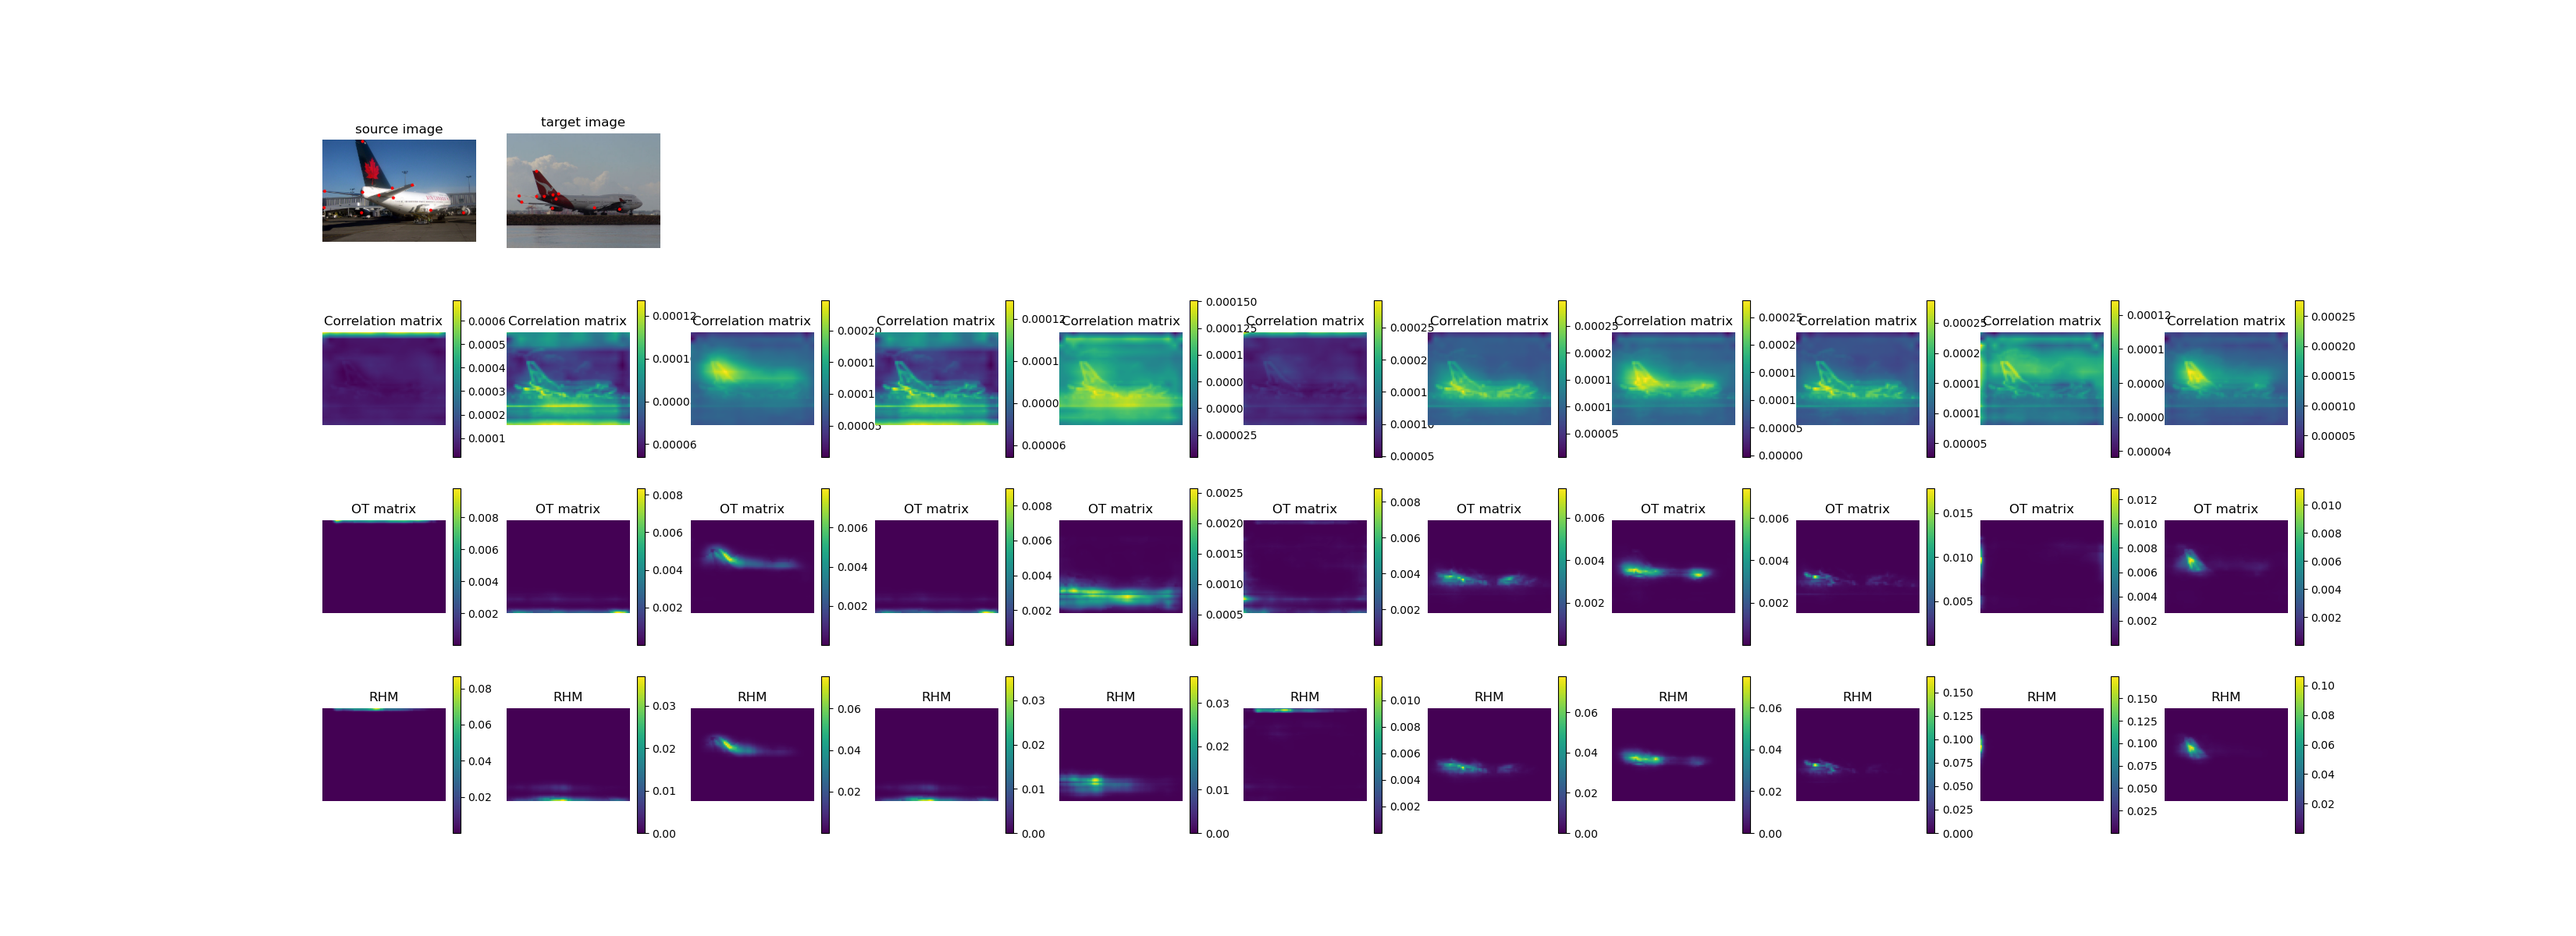
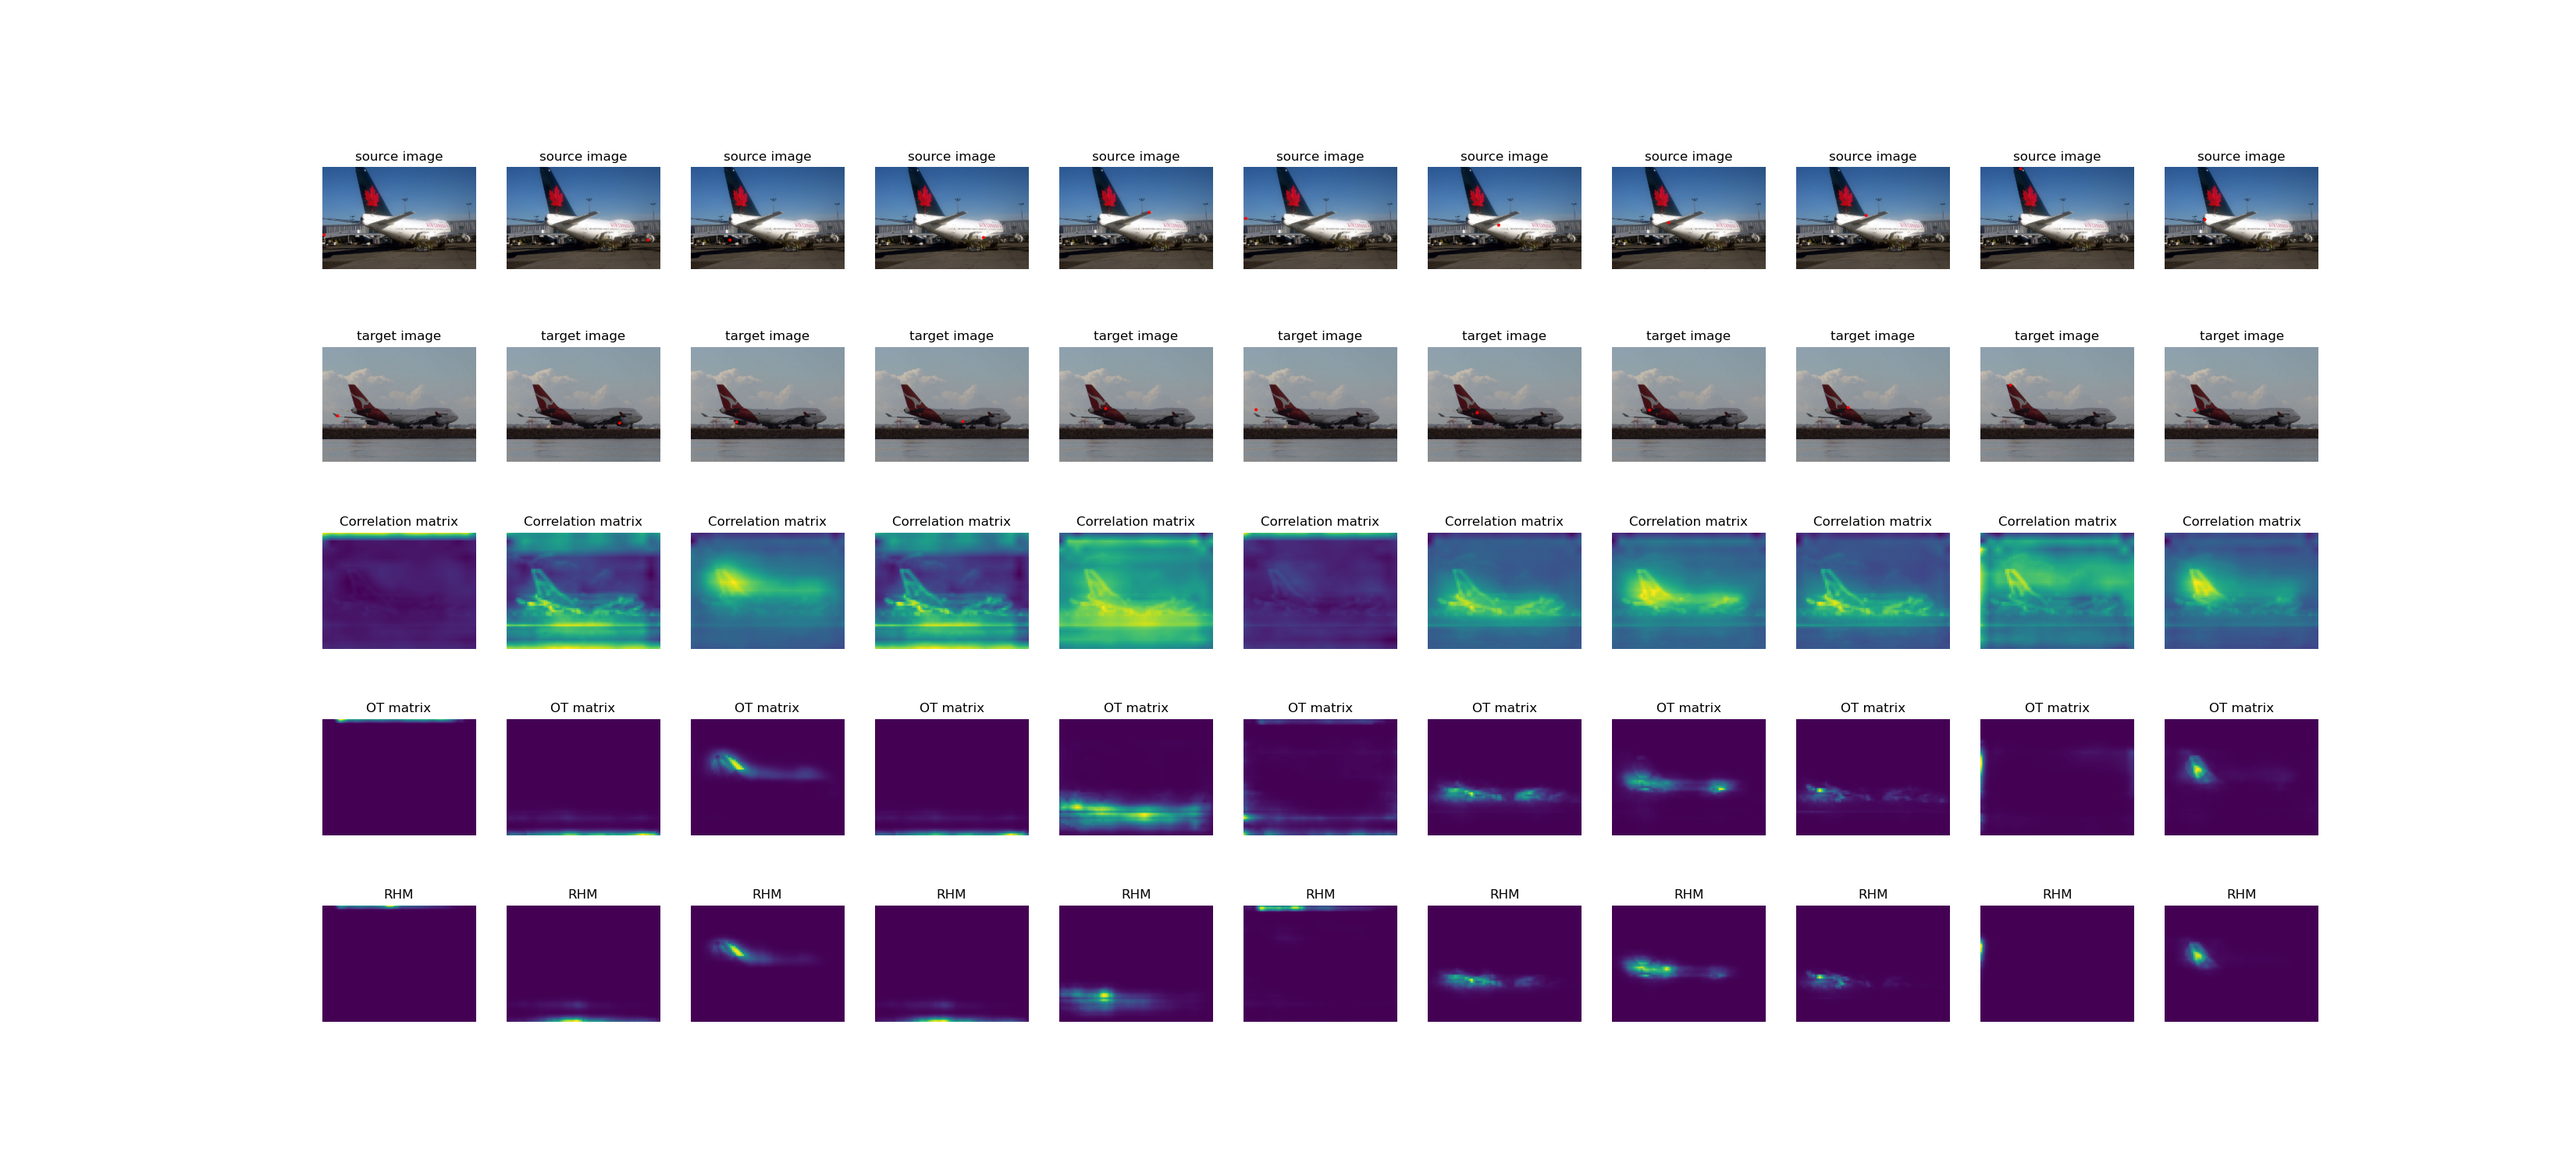
modify visualize_sim function

diff --git a/model/scot_CAM.py b/model/scot_CAM.py
@@ -32,11 +32,14 @@ def tensor_to_np(tensor):
 def show_from_cv(img, kps):
     img = cv2.cvtColor(img, cv2.COLOR_BGR2RGB)
     # print(img.shape, kps)
+    img_list = []
     for i in range(kps.shape[1]):
-        cv2.circle(img,(kps[0][i],kps[1][i]),3,(0,0,255),-1)
+        img_i = cv2.circle(img.copy(),(kps[0][i],kps[1][i]),3,(0,0,255),-1)
+        img_i = cv2.cvtColor(img_i, cv2.COLOR_RGB2BGR)
+        img_list.append(img_i)
     #cv2.imwrite('/home/jianting/SCOT/visualization/'+title+'.jpg',img)
-    img = cv2.cvtColor(img, cv2.COLOR_RGB2BGR)
-    return img
+    # img = cv2.cvtColor(img, cv2.COLOR_RGB2BGR)
+    return img_list
 
 
 class SCOT_CAM:
@@ -283,15 +286,17 @@ class SCOT_CAM:
         assert(sim in sim_list)
         choice_list = ['cross','self']
         assert(choice in choice_list)
+        src_kps_feat = src_kps/self.jsz[self.hyperpixel_ids[0]]
+        trg_kps_feat = trg_kps/self.jsz[self.hyperpixel_ids[0]]
+        num_kps = src_kps_feat.size()[1]
         source_image = self.detransform(src_img)
         target_image = self.detransform(trg_img)
         scr_image = tensor_to_np(source_image)
         trg_image = tensor_to_np(target_image)
-        scr_image_with_rps = show_from_cv(scr_image, src_kps.cpu().numpy().astype(int))
-        trg_image_with_rps = show_from_cv(trg_image, trg_kps.cpu().numpy().astype(int))
-        src_kps_feat = src_kps/self.jsz[self.hyperpixel_ids[0]]
-        trg_kps_feat = trg_kps/self.jsz[self.hyperpixel_ids[0]]
-        num_kps = src_kps_feat.size()[1]
+        scr_image_with_rps_list = show_from_cv(scr_image, src_kps.cpu().numpy().astype(int))
+        trg_image_with_rps_list = show_from_cv(trg_image, trg_kps.cpu().numpy().astype(int))
+        assert(len(scr_image_with_rps_list)==len(trg_image_with_rps_list)==num_kps)
+        
 
         src_hyperpixels = self.extract_hyperpixel(src_img, maptype, src_bbox, src_mask, backbone)
         trg_hyperpixels = self.extract_hyperpixel(trg_img, maptype, trg_bbox, trg_mask, backbone)
@@ -311,56 +316,76 @@ class SCOT_CAM:
         
         visual_dic = {'Correlation':C_mat, 'OT':OT_mat_orisize, 'RHM':confidence_ts_orisize}
         if sim == 'All':
-            plt.figure(figsize=(3*num_kps,3*4))
-            plt.subplot(4,num_kps,1)
-            plt.title('source image')
-            plt.axis('off')
-            plt.imshow(scr_image_with_rps)
-            plt.subplot(4,num_kps,2)
-            plt.title('target image')
-            plt.axis('off')
-            plt.imshow(trg_image_with_rps)
+            plt.figure(figsize=(3*num_kps,3*5))
+            # plt.subplot(4,num_kps,1)
+            # plt.title('source image')
+            # plt.axis('off')
+            # plt.imshow(scr_image_with_rps)
+            # plt.subplot(4,num_kps,2)
+            # plt.title('target image')
+            # plt.axis('off')
+            # plt.imshow(trg_image_with_rps)
             for i in range(num_kps):
             ##Correlation matrix C
-                plt.subplot(4,num_kps,i+1+num_kps)
+                plt.subplot(5,num_kps,i+1)
+                plt.title('source image')
+                plt.axis('off')
+                plt.imshow(scr_image_with_rps_list[i])
+
+                plt.subplot(5,num_kps,i+1+num_kps)
+                plt.title('target image')
+                plt.axis('off')
+                plt.imshow(trg_image_with_rps_list[i])
+
+                plt.subplot(5,num_kps,i+1+2*num_kps)
                 plt.title('Correlation matrix')
                 plt.axis('off')
                 plt.imshow(C_mat[int(min(max(src_kps_feat[0][i],0),C_mat.shape[0]-1)),\
                     int(min(max(src_kps_feat[1][i],0),C_mat.shape[1]-1)),:,:].cpu().numpy())
-                plt.colorbar()
+                # plt.colorbar()
                 ##OT matrix T
-                plt.subplot(4,num_kps,i+1+2*num_kps)
+                plt.subplot(5,num_kps,i+1+3*num_kps)
                 plt.title('OT matrix')
                 plt.axis('off')
                 plt.imshow(OT_mat_orisize[int(min(max(src_kps_feat[0][i],0),OT_mat_orisize.shape[0]-1)),\
                     int(min(max(src_kps_feat[1][i],0),OT_mat_orisize.shape[1]-1)),:,:].cpu().numpy()) 
-                plt.colorbar()
+                # plt.colorbar()
                 #RHM confidence
-                plt.subplot(4,num_kps,i+1+3*num_kps)
+                plt.subplot(5,num_kps,i+1+4*num_kps)
                 plt.title('RHM')
                 plt.axis('off')
                 plt.imshow(confidence_ts_orisize[int(min(max(src_kps_feat[0][i],0),confidence_ts_orisize.shape[0]-1)),\
                     int(min(max(src_kps_feat[1][i],0),confidence_ts_orisize.shape[1]-1)),:,:].cpu().numpy())
-                plt.colorbar()
+                # plt.colorbar()
             plt.savefig(savepath+pair_class+vis_idx+backbone+'_all_three_matrices_'+choice+'_similarity')
         else:
-            plt.figure(figsize=(3*num_kps,3*2))
-            plt.subplot(2,num_kps,1)
-            plt.title('source image')
-            plt.axis('off')
-            plt.imshow(scr_image_with_rps)
-            plt.subplot(2,num_kps,2)
-            plt.title('target image')
-            plt.axis('off')
-            plt.imshow(trg_image_with_rps)
+            plt.figure(figsize=(3*num_kps,3*3))
+            # plt.subplot(2,num_kps,1)
+            # plt.title('source image')
+            # plt.axis('off')
+            # plt.imshow(scr_image_with_rps)
+            # plt.subplot(2,num_kps,2)
+            # plt.title('target image')
+            # plt.axis('off')
+            # plt.imshow(trg_image_with_rps)
             for i in range(num_kps):
             ##Correlation matrix C
-                plt.subplot(2,num_kps,i+1+num_kps)
+                plt.subplot(3,num_kps,i+1)
+                plt.title('source image')
+                plt.axis('off')
+                plt.imshow(scr_image_with_rps_list[i])
+
+                plt.subplot(3,num_kps,i+1+num_kps)
+                plt.title('target image')
+                plt.axis('off')
+                plt.imshow(trg_image_with_rps_list[i])
+
+                plt.subplot(3,num_kps,i+1+2*num_kps)
                 plt.title(sim+' matrix')
                 plt.axis('off')
                 plt.imshow(visual_dic[sim][int(min(max(src_kps_feat[0][i],0),visual_dic[sim].shape[0]-1)),\
                     int(min(max(src_kps_feat[1][i],0),visual_dic[sim].shape[1]-1)),:,:].cpu().numpy())
-                plt.colorbar()
+                # plt.colorbar()
             plt.savefig(savepath+pair_class+vis_idx+backbone+'_'+sim+'_matrices_'+choice+'_similarity')
 
 
